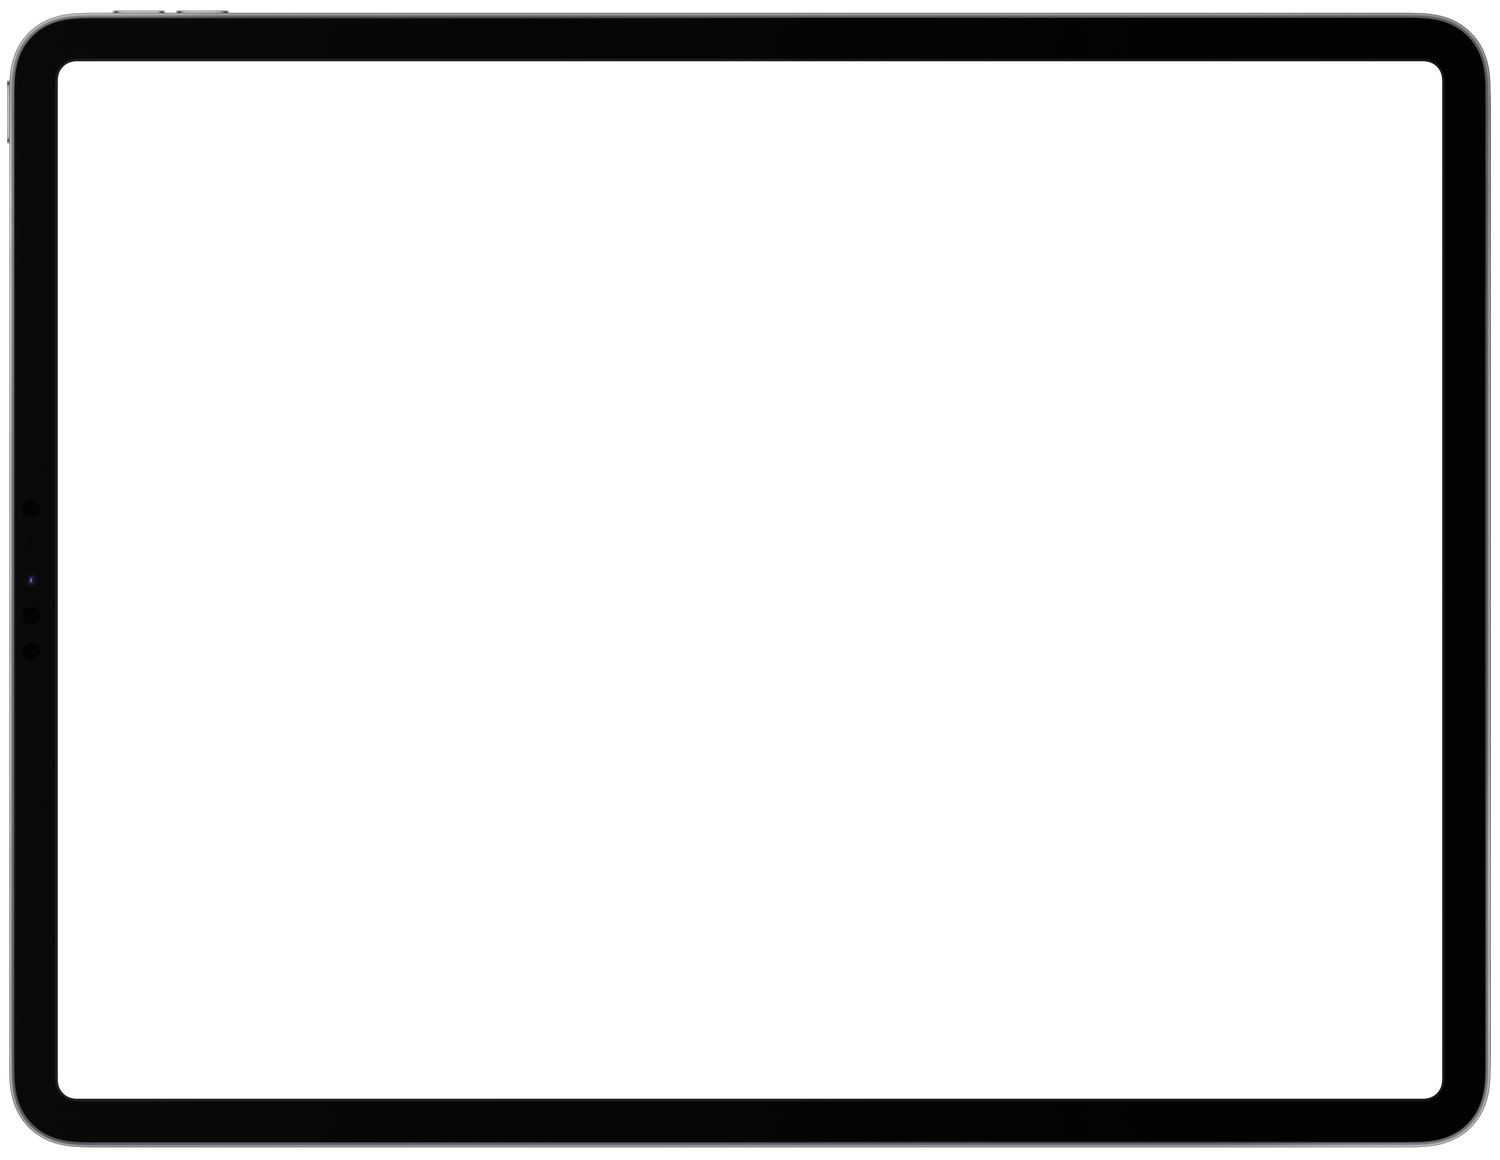
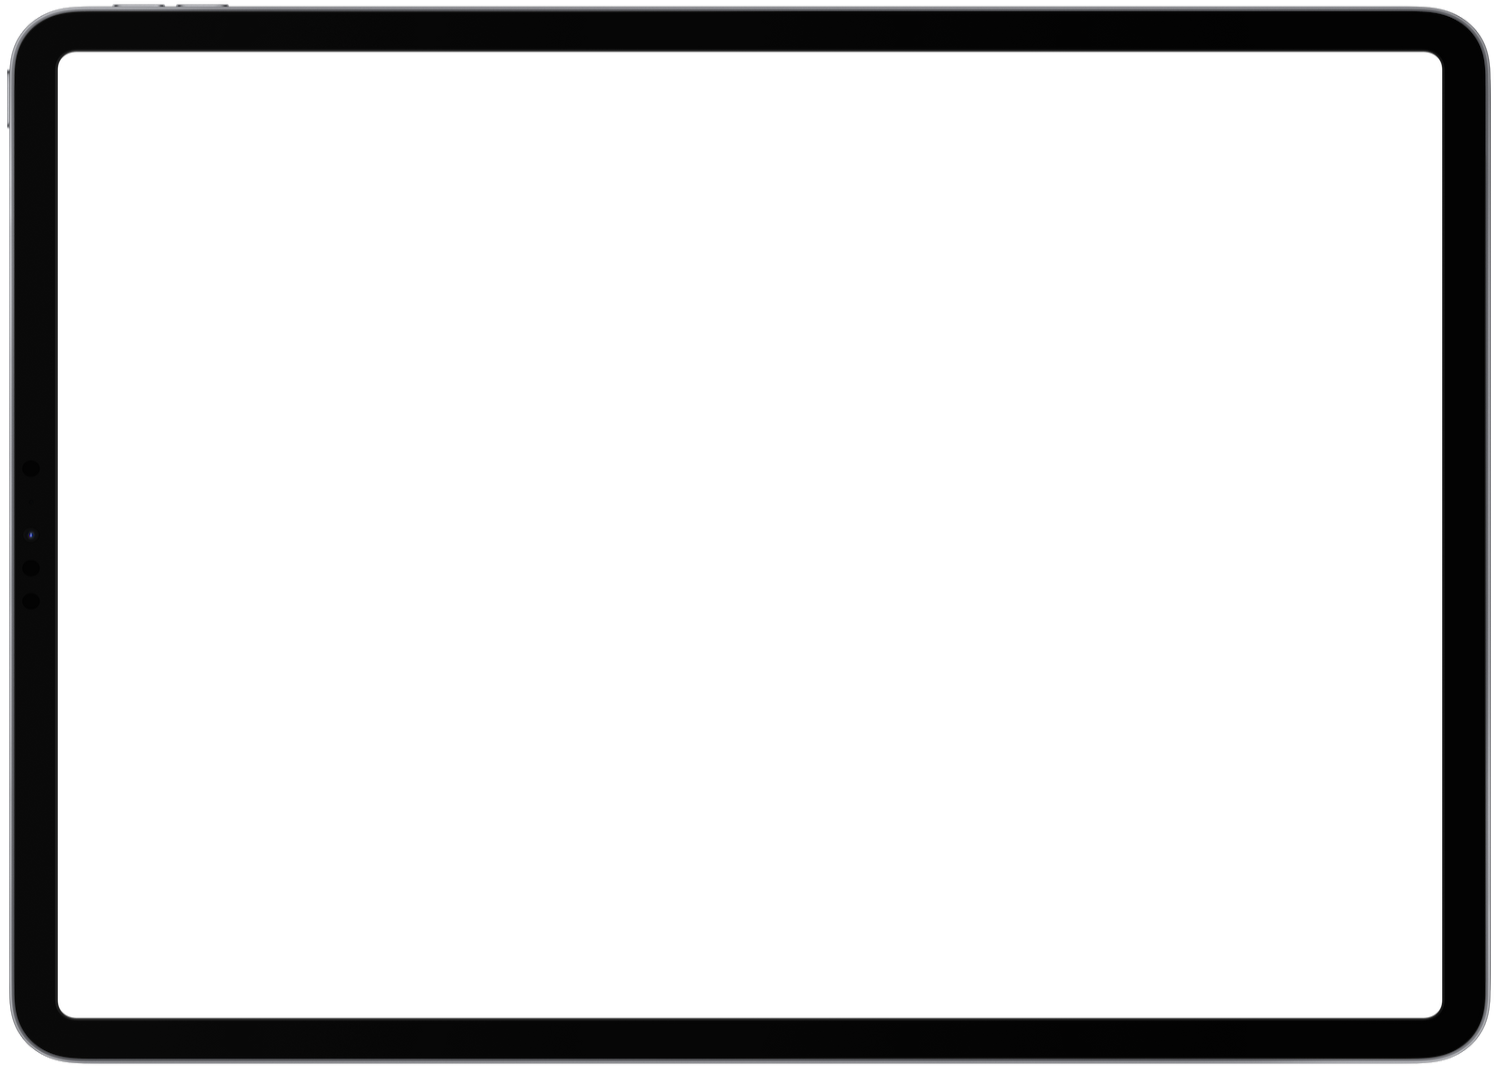
fix: wrong ratio for tablet mockup (#28)

Changed region(s): [[0.0, 0.9252, 1.0, 1.0], [0.0, 0.0, 0.9813, 0.0617], [0.9813, 0.0308, 1.0, 0.0617]]

diff --git a/src/components/MultiDeviceCodeEditor/devices.ts b/src/components/MultiDeviceCodeEditor/devices.ts
@@ -29,14 +29,14 @@ export const devices = [
 		width: 834,
 		height: 1194,
 		scale: 0.35,
-		inset: "-5% -6%",
+		inset: "-4% -6%",
 	},
 	{
 		name: "tablet-landscape",
 		width: 1194,
 		height: 834,
 		scale: 0.35,
-		inset: "-6% -5%",
+		inset: "-6% -4%",
 	},
 	{
 		name: "laptop",
